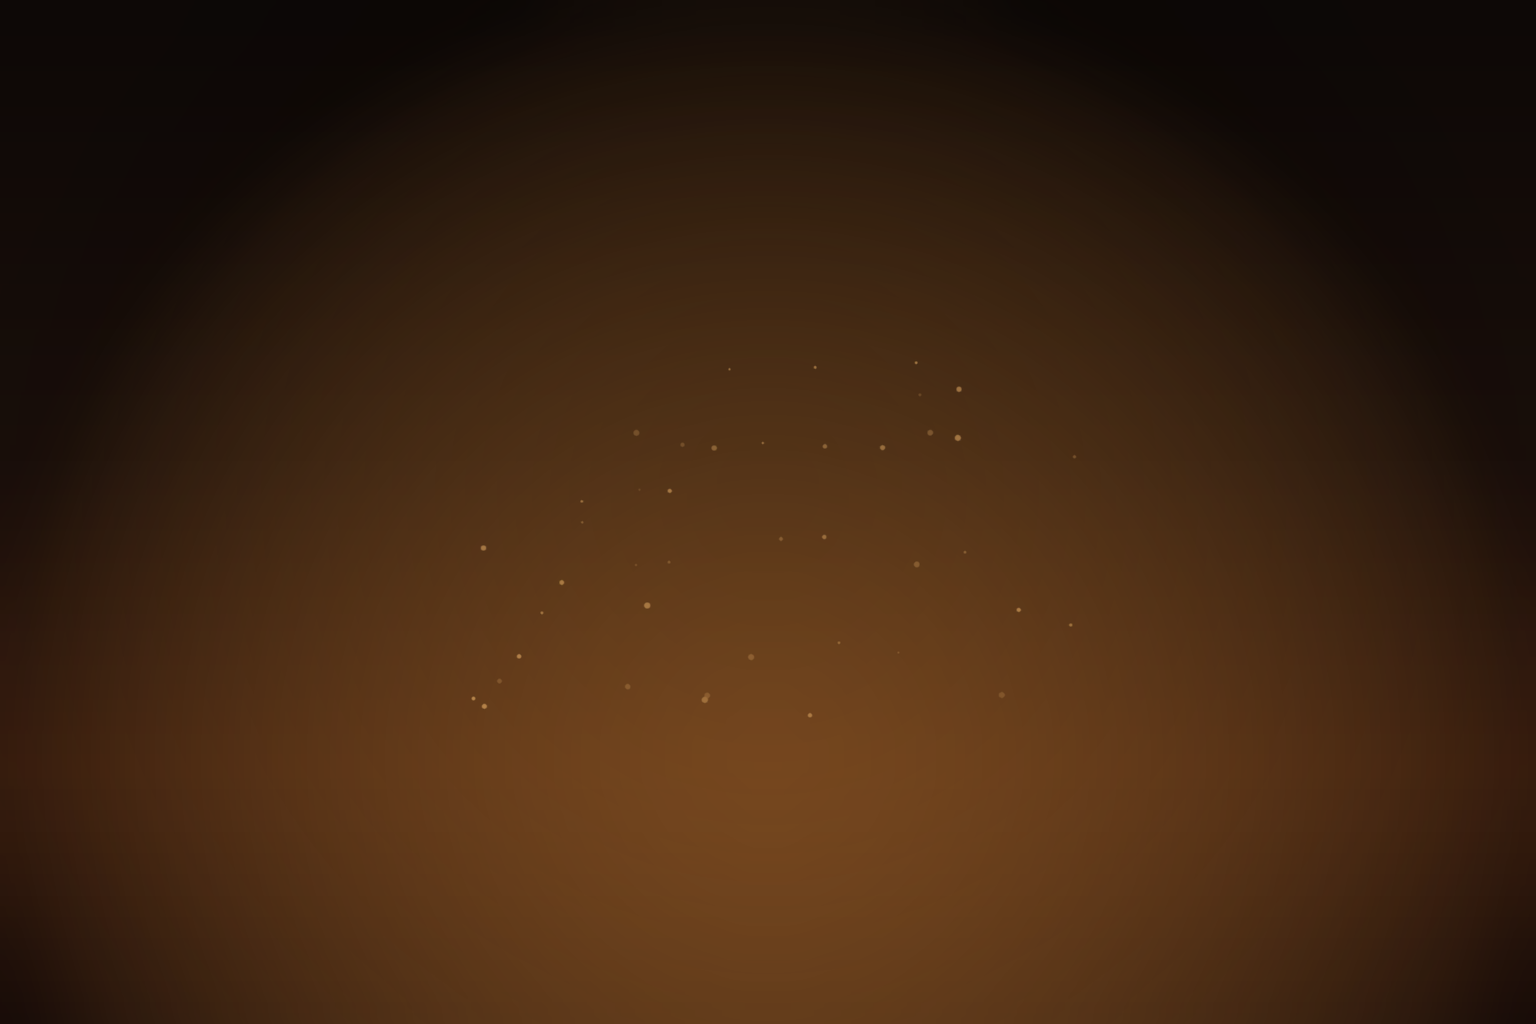
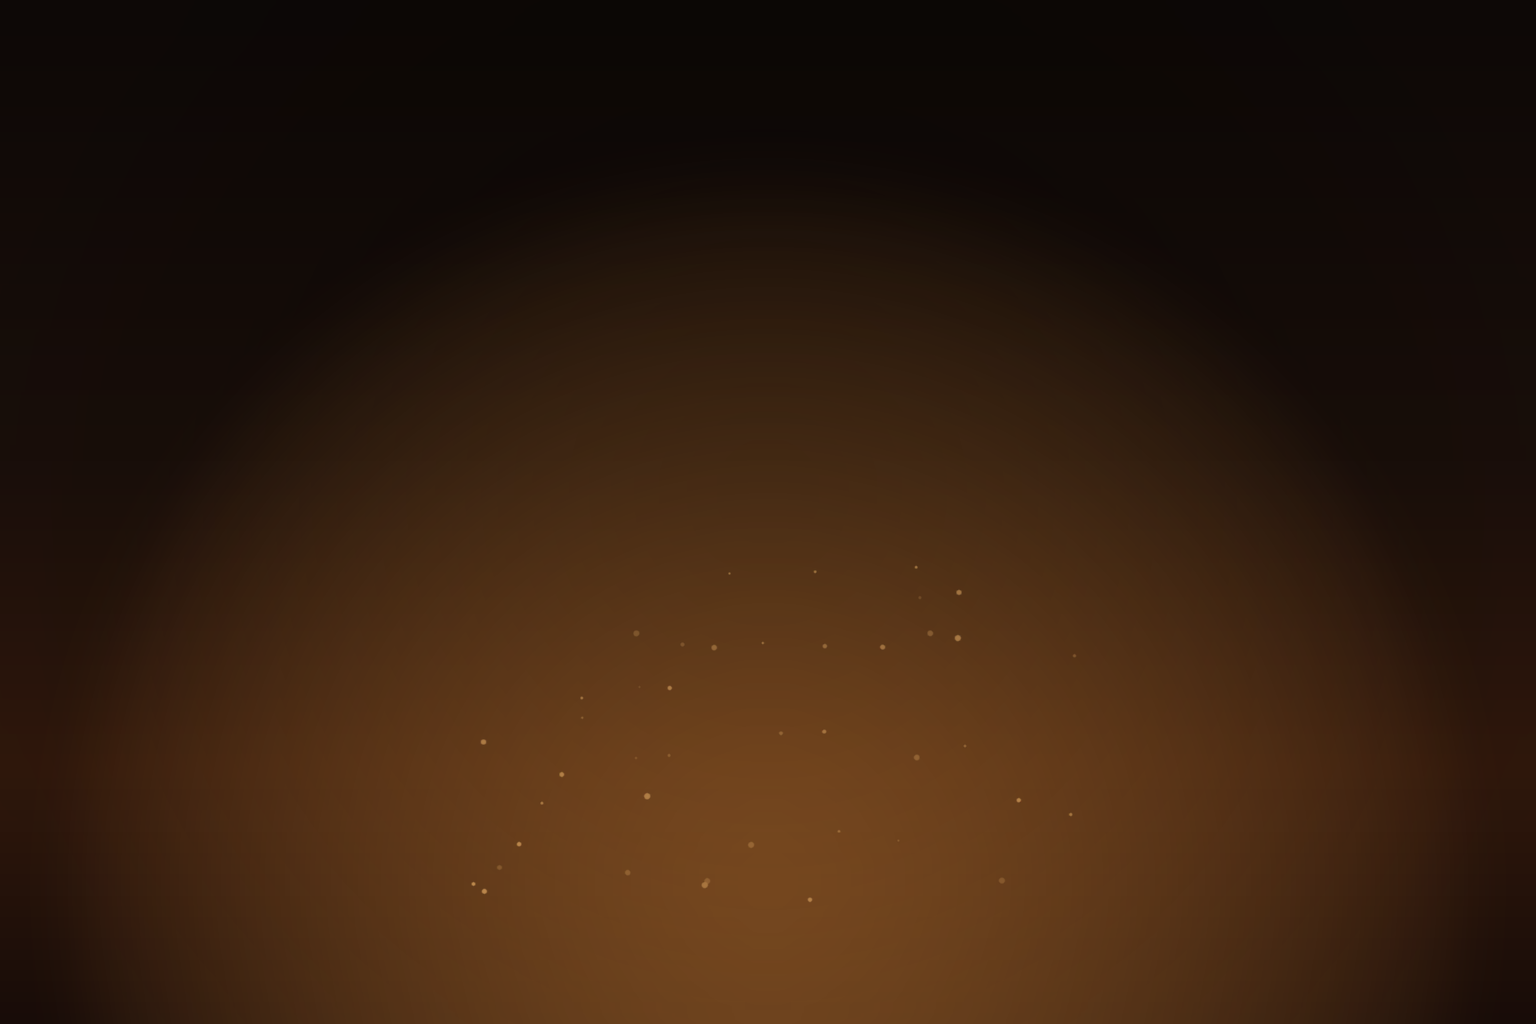
feat(bonfire): 火床重定位靠下 — 静态图+shader 火床对齐 y≈0.86, 余烬从火床上升而非屏幕底边
- export-scenes.py: glow center 0.74→0.86, radius 0.52→0.48, embers 0.35~0.70→0.55~0.88
- background.wgsl: FIRE_CENTER 0.95→0.86, MASK_RADIUS 0.55→0.48, EMBER_SPAN 0.65→0.52, cy 从 1.0→FIRE_CENTER.y
- 再生 bonfire.png + scenes.rs (backdrop 119/79/41, 41/26/13, 对比度护栏 OK)
- spec 追记火床重定位决议

Changed region(s): [[0.1562, 0.0938, 0.8438, 0.4062]]

diff --git a/tools/export-scenes.py b/tools/export-scenes.py
@@ -282,7 +282,7 @@ def build_embers(count: int, color: tuple, seed: int) -> Image.Image:
 
     for _ in range(count):
         x = w * (0.30 + rnd() * 0.40)
-        y = h * (0.35 + rnd() * 0.35)
+        y = h * (0.55 + rnd() * 0.33)
         r = (1 + rnd() * 2.2) * SS
         a = int(60 + rnd() * 140)
         draw.ellipse([x - r, y - r, x + r, y + r], fill=(*color, a))
@@ -321,7 +321,7 @@ SCENES = [
             (0.75, (48, 24, 12)),
             (1.00, (24, 12, 8)),
         ],
-        "glow": {"color": (255, 159, 67), "center": (0.5, 0.74), "radius": 0.52, "peak": 120},
+        "glow": {"color": (255, 159, 67), "center": (0.5, 0.86), "radius": 0.48, "peak": 120},
         "veil": {"color": (0, 0, 0), "center": (0.5, 0.48), "radius": 0.55, "peak": 60},
         "embers": {"count": 42, "color": (255, 190, 110), "seed": 0xB0E1},
         "palette": {

diff --git a/examples/pomodoro/scenes.rs b/examples/pomodoro/scenes.rs
@@ -17,8 +17,8 @@ pub const SCENES: [SceneSpec; 5] = [
             text_secondary: Color::from_srgb8(199, 184, 166),
             surface: Color::rgba(0.0, 0.0, 0.0, 0.25),
             surface_input: Color::rgba(0.0, 0.0, 0.0, 0.38),
-            backdrop_light: Color::from_srgb8(131, 89, 45),
-            backdrop_dark: Color::from_srgb8(64, 39, 19),
+            backdrop_light: Color::from_srgb8(119, 79, 41),
+            backdrop_dark: Color::from_srgb8(41, 26, 13),
         },
     },
     SceneSpec {

diff --git a/docs/specs/pomodoro-scene-motion-bonfire.md b/docs/specs/pomodoro-scene-motion-bonfire.md
@@ -91,6 +91,7 @@ powershell -NoProfile -File tools/benchmark.ps1 -Example pomodoro -Runs 3  # 性
 
 1. **效果概念**: 光晕呼吸 + 火星余烬上浮, 不画火焰形状(静态图本身无火体, 火在画框外)。——决议: 采纳, 终审通过。
 2. **锚点**: 光晕中心 uv ≈ (0.5, 0.95), 余烬发射带 uv.x 0.35~0.75、自底部升起至 y≈0.35 淡出(对齐静态图火星散布带)。——决议: 采纳, 终审未再调整。
+   - **2026-07-29 追记 (火床重定位)**: 用户指出余烬从屏幕底边升起与静态火床位置不一致——真实物理中火星应从火堆(余烬/光晕)上方冒出。火床从 y≈0.95 重定位到 y≈0.86,静态图同步移动(glow center 0.74→0.86, embers 0.35~0.70→0.55~0.88),shader 余烬起点从 `1.0 - life*SPAN` 改为 `FIRE_CENTER.y - life*SPAN`,呼吸半径 0.55→0.48,余烬行程 0.65→0.52。改后静态火床与 shader 火床在同一位置,火星从火床升起物理一致。
 3. **uniform 形状**: 每效果一标量(32B), 不引入效果选择子枚举。——决议: 采纳 (交叉淡化期间双效果并存, T2 `rain_and_fire_coexist_on_crossfade` 测试固化)。
 4. **时序**: 火效与雨共享 `time` + 8s 公共周期;火效频率全部落在 1/8 Hz 整数倍网格上。——决议: 采纳 (`MOTION_WRAP_SECS` 更名落地)。
 5. **沉降**: 雨火共用同一 `MotionEnvelope` 实例(同涨同落),不为火单设包络。——决议: 采纳 (T3 接线落地)。
